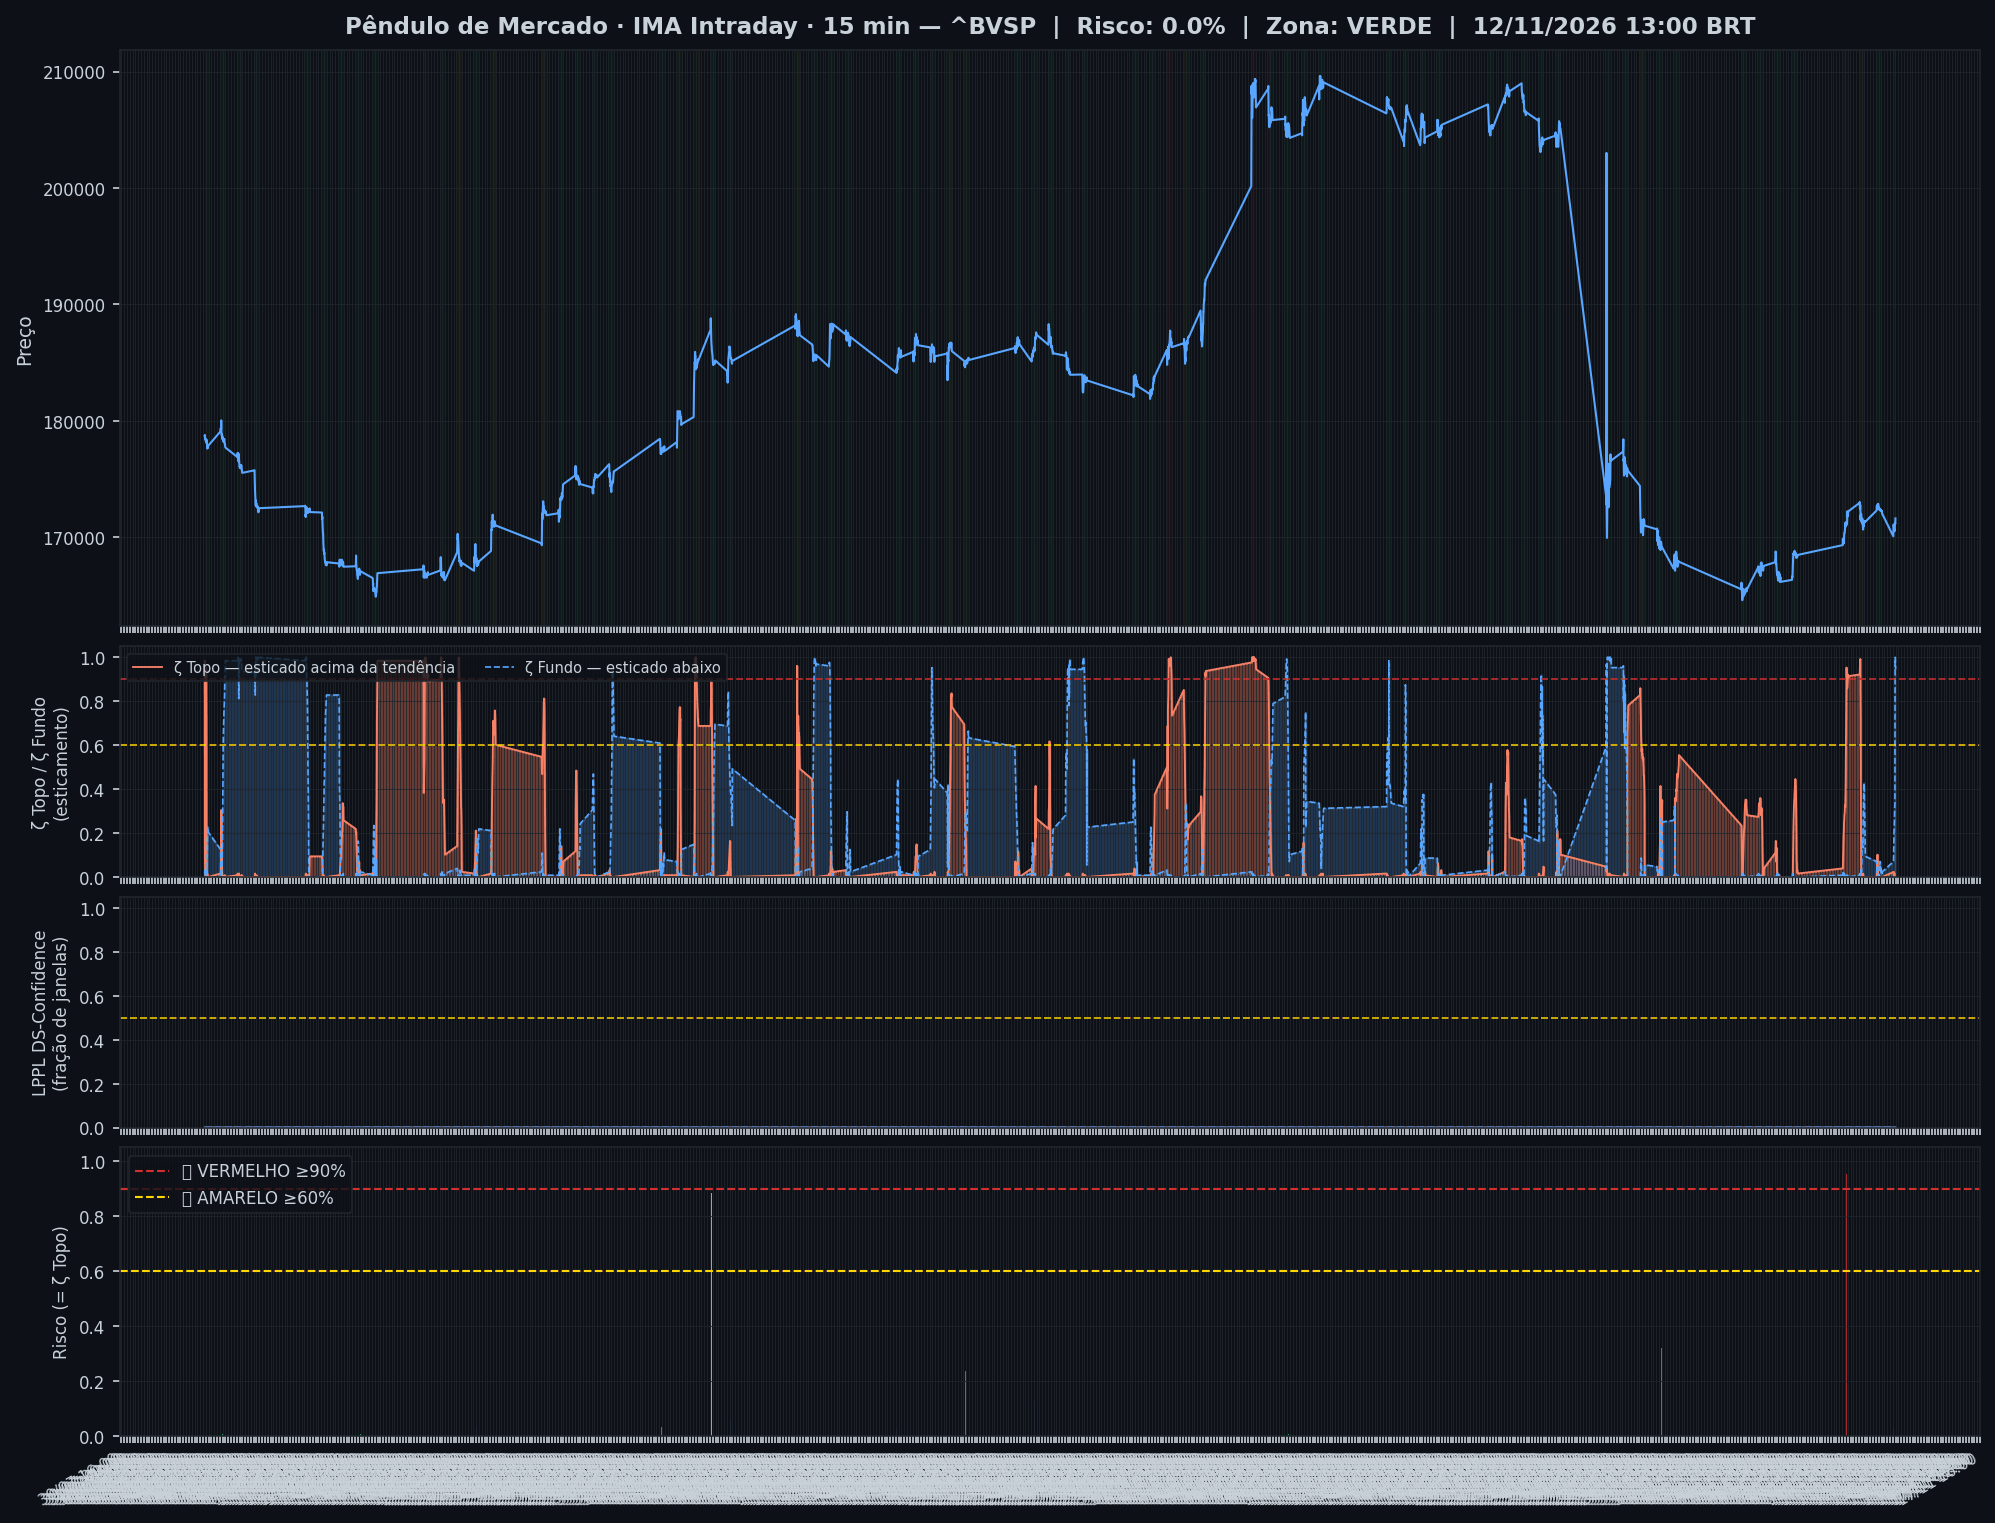
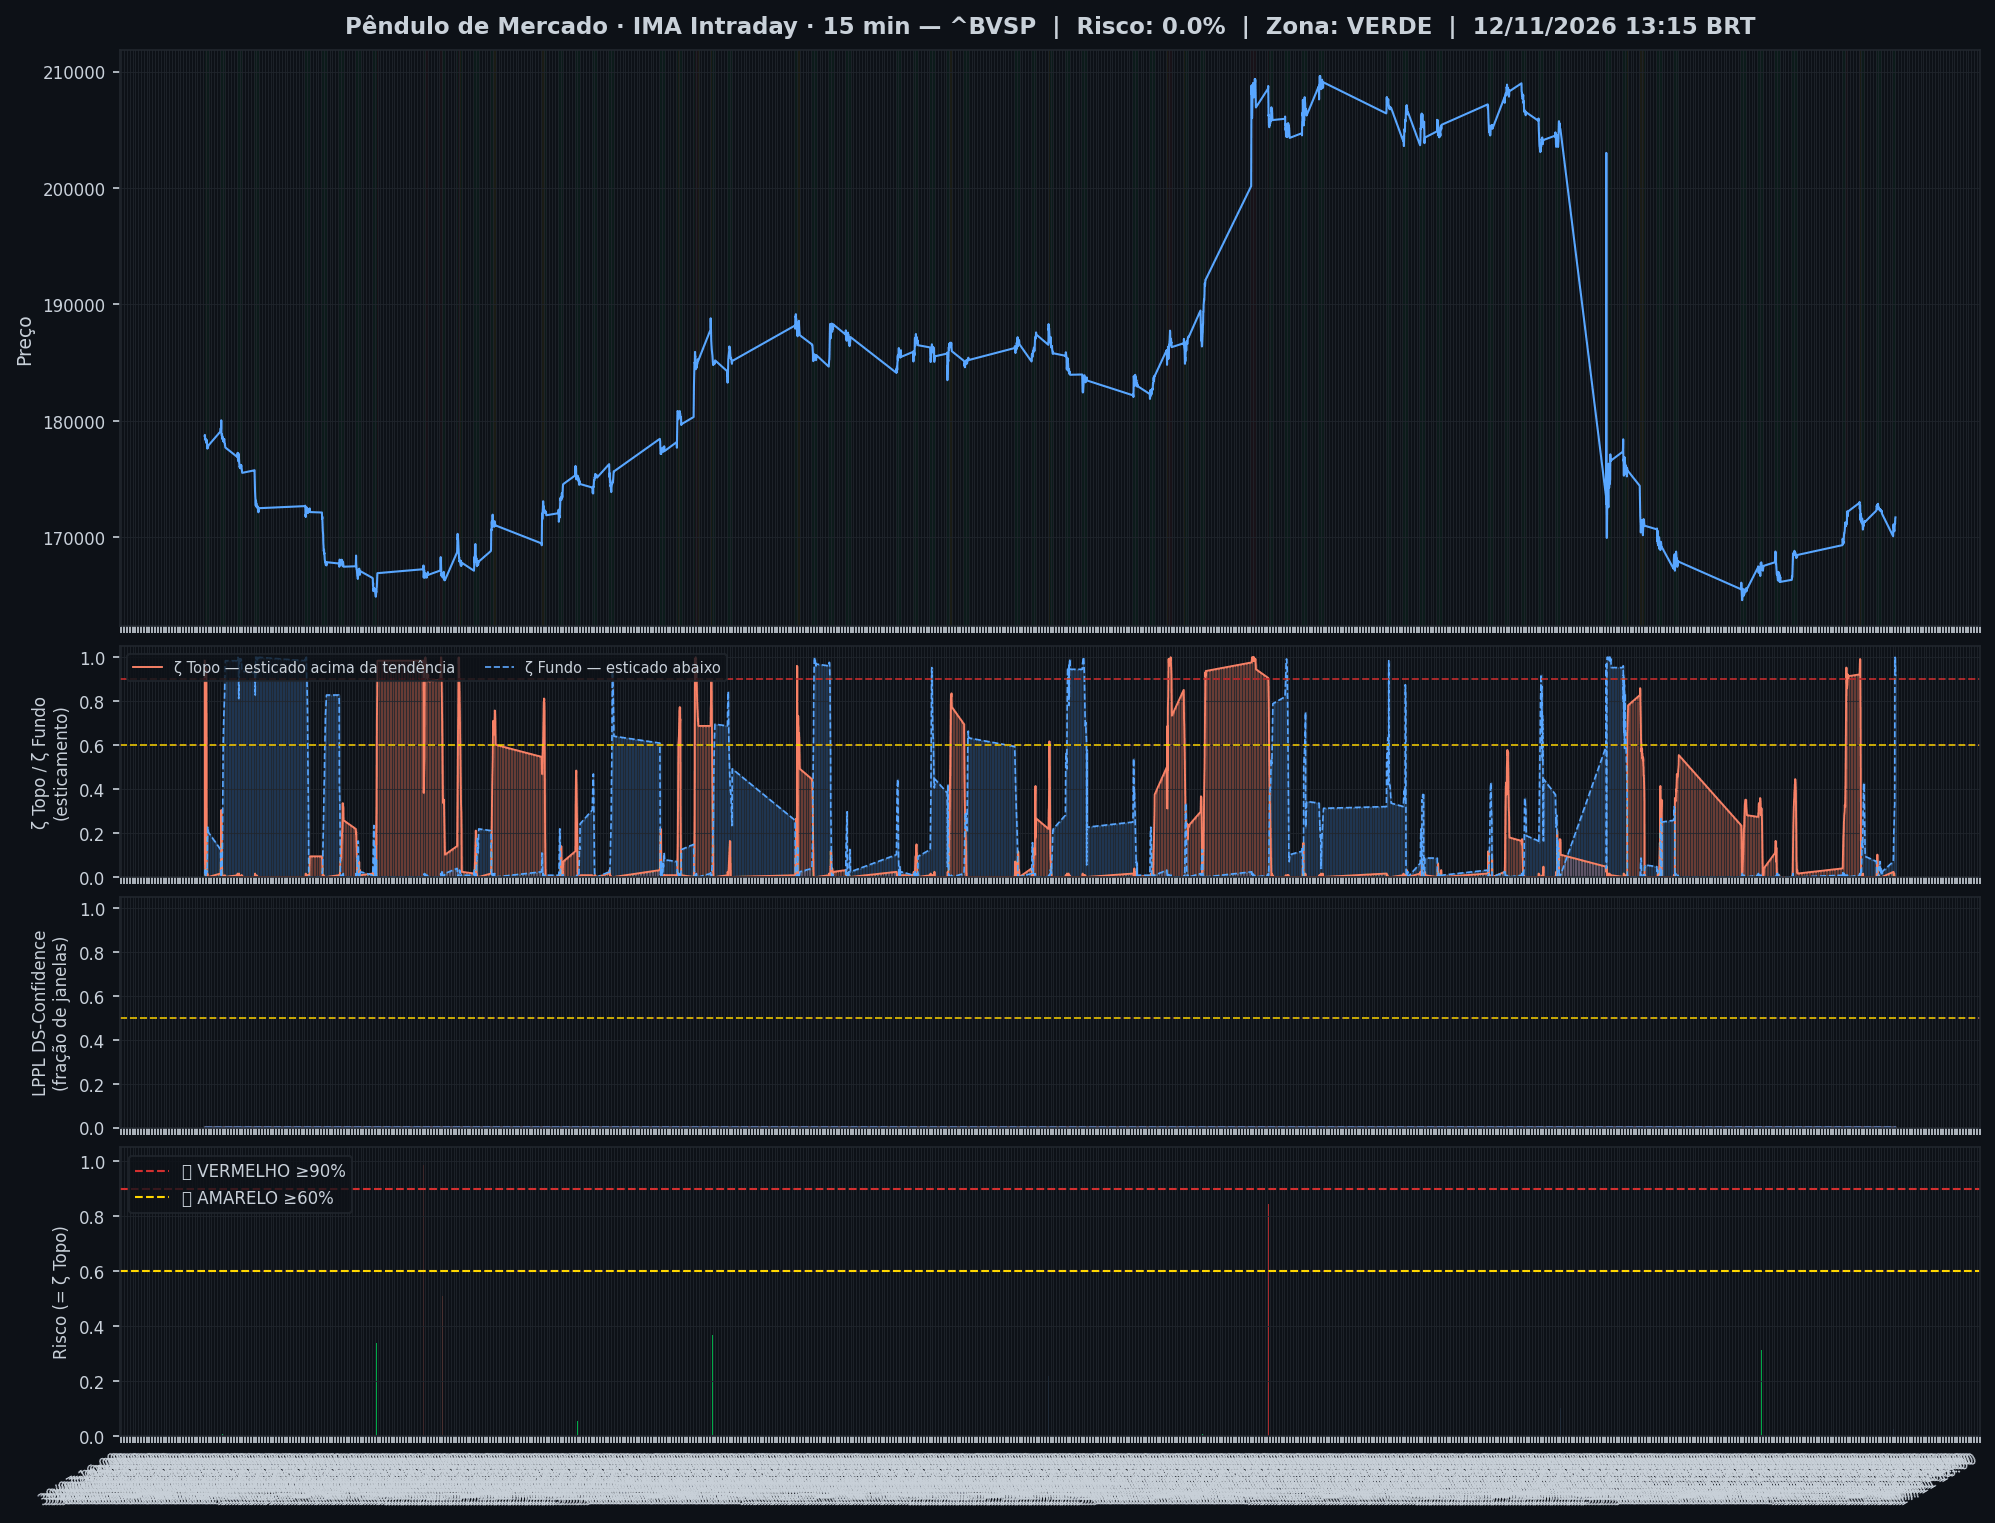
🤖 Auto: Sinal 12/11/2026 13:30

diff --git a/content/intraday/2026-11-12.md b/content/intraday/2026-11-12.md
@@ -1,10 +1,10 @@
 ---
-title: "🟢 Intraday 12/11/2026 13:00 BRT — VERDE"
+title: "🟢 Intraday 12/11/2026 13:15 BRT — VERDE"
 date: 2026-11-12
 tags: [intraday]
 ---
 
-> [!danger] Onde o mercado está agora (12/11 13:00, candles de 15 min): **🔪 Queda forte**
+> [!danger] Onde o mercado está agora (12/11 13:15, candles de 15 min): **🔪 Queda forte**
 > `Pânico ◀─●───────────────────▶ Euforia`
 >
 > O Ibovespa caiu rápido e está bem abaixo da sua tendência, em ritmo de pânico. Historicamente, quedas assim costumaram continuar um pouco antes de virar.
@@ -20,26 +20,26 @@ tags: [intraday]
 > | 📍 **Sinais** | hoje: nenhum sinal | [abrir](sinais-topo-fundo/) |
 > | 🧪 **Placar ao vivo** | 1 operação(ões), 0 com lucro, soma -0,8% | [abrir](operacoes/) |
 
-> [!success] IMA Intraday · 15 min (12/11 13:00): 🟢 **VERDE** — Risco 0% · ＝ +0 p.p. vs leitura anterior
+> [!success] IMA Intraday · 15 min (12/11 13:15): 🟢 **VERDE** — Risco 0% · ＝ +0 p.p. vs leitura anterior
 > `░░░░░░░░░░░░░░░░░░░░`
 > Preço na faixa normal em torno da tendência.
 
 
-> [!danger] 🚨 Nível EXTREMO agora — IMA Intraday · 15 min (12/11 13:00)
-> - 🔪 **ζ Fundo 95%** — preço esticado abaixo da tendência — 🔪 faca caindo: queda forte em andamento
+> [!danger] 🚨 Nível EXTREMO agora — IMA Intraday · 15 min (12/11 13:15)
+> - 🔪 **ζ Fundo 91%** — preço esticado abaixo da tendência — 🔪 faca caindo: queda forte em andamento
 
 > [!note] 🧭 IMA Diário · viés (11/11): 🌱 **Fundo se desfazendo**
 > 📚 só contexto: o pânico passou; sem vantagem estatística confirmada para comprar só por isso
 >
 > *Leitura educacional baseada em 26 anos de dados, não recomendação. [Como usar](../metodologia/crise#3-como-usar-na-prática).*
 
-| Indicador — IMA Intraday · 15 min (12/11 13:00) | Valor |
+| Indicador — IMA Intraday · 15 min (12/11 13:15) | Valor |
 |---|---|
 | 🔴 ζ Topo — preço esticado acima da tendência | **0%** |
-| 🔵 ζ Fundo — preço esticado abaixo da tendência | 🔪 **95%** |
+| 🔵 ζ Fundo — preço esticado abaixo da tendência | 🔪 **91%** |
 | 🫧 LPPL bolha — alta super-exponencial (risco de crash) | 0% |
 | 🫧 LPPL antibolha — queda super-exponencial (risco de repique) | 0% |
-| 📊 Ibovespa | 171.638 pts |
+| 📊 Ibovespa | 171.721 pts |
 
 ![Gráfico do sinal](../graficos/sinal_intraday.png)
 
@@ -47,6 +47,7 @@ tags: [intraday]
 
 | Data | Zona | Evento | Risco | ζ Topo | ζ Fundo | LPPL |
 |---|---|---|---|---|---|---|
+| 2026-11-12 13:15 | 🟢 VERDE |  | **0%** | 0% | 🔪 **91%** | 0% |
 | 2026-11-12 13:00 | 🟢 VERDE |  | **0%** | 0% | 🔪 **95%** | 0% |
 | 2026-11-12 12:45 | 🟢 VERDE |  | **0%** | 0% | 🔪 **98%** | 0% |
 | 2026-11-12 12:30 | 🟢 VERDE |  | **0%** | 0% | 🔪 **100%** | 0% |
@@ -76,7 +77,6 @@ tags: [intraday]
 | 2026-11-11 14:45 | 🟢 VERDE |  | **0%** | 0% | 6% | 0% |
 | 2026-11-11 14:30 | 🟢 VERDE |  | **0%** | 0% | 5% | 0% |
 | 2026-11-11 14:15 | 🟢 VERDE |  | **0%** | 0% | 4% | 0% |
-| 2026-11-11 14:00 | 🟢 VERDE |  | **0%** | 0% | 5% | 0% |
 
 <small>Destaques: 🟡 ≥ 60% · 🔴 ≥ 90% (Risco e ζ Topo) · 🔵 ≥ 60% · 🔪 ≥ 90% (ζ Fundo) · 🫧 ≥ 30% · 🫧🔴 ≥ 50% (LPPL)</small>
 
@@ -85,43 +85,43 @@ tags: [intraday]
 **7% dos ativos em tensão** (2🔴 0🟡) · **7 com ζ Fundo alto** — quanto mais ativos disparam juntos, mais confiável o sinal.
 
 > [!danger] Em destaque no multi-ativo
-> 🔪 **BRASIL** ζ Fundo 99% · 🔪 **AXIA ENERGIA** ζ Fundo 98% · 🔪 **BTGP BANCO** ζ Fundo 98% · 🔴 **ULTRAPAR** ζ Topo 98% · 🔪 **ITAUSA** ζ Fundo 98% · 🔴 **VIBRA** ζ Topo 97% · 🔵 **ENEVA** ζ Fundo 88% · 🔵 **BRADESCO** ζ Fundo 84% · 🔵 **ITAUUNIBANCO** ζ Fundo 71%
+> 🔪 **BTGP BANCO** ζ Fundo 99% · 🔪 **BRASIL** ζ Fundo 99% · 🔴 **ULTRAPAR** ζ Topo 98% · 🔪 **AXIA ENERGIA** ζ Fundo 98% · 🔴 **VIBRA** ζ Topo 97% · 🔪 **ITAUSA** ζ Fundo 96% · 🔪 **ENEVA** ζ Fundo 91% · 🔵 **BRADESCO** ζ Fundo 79% · 🔵 **ITAUUNIBANCO** ζ Fundo 61%
 
 | Zona | Ativo | Setor | ζ Topo | ζ Fundo |
 |---|---|---|---|---|
-| 🟢 | **BRASIL** | Financeiro | 0.8% | 🔪 **99.2%** |
-| 🟢 | **AXIA ENERGIA** | Energia | 0.0% | 🔪 **98.4%** |
-| 🟢 | **BTGP BANCO** | Financeiro | 0.0% | 🔪 **98.4%** |
-| 🔴 | **ULTRAPAR** | Outros | 🔴 **98.4%** | 0.8% |
-| 🟢 | **ITAUSA** | Financeiro | 0.0% | 🔪 **97.7%** |
+| 🟢 | **BTGP BANCO** | Financeiro | 0.0% | 🔪 **99.2%** |
+| 🟢 | **BRASIL** | Financeiro | 0.0% | 🔪 **99.2%** |
+| 🔴 | **ULTRAPAR** | Outros | 🔴 **98.4%** | 0.0% |
+| 🟢 | **AXIA ENERGIA** | Energia | 0.0% | 🔪 **97.7%** |
 | 🔴 | **VIBRA** | Energia | 🔴 **96.9%** | 0.0% |
-| 🟢 | **ENEVA** | Energia | 0.0% | 🔵 **87.5%** |
-| 🟢 | **BRADESCO** | Financeiro | 0.0% | 🔵 **84.4%** |
-| 🟢 | **ITAUUNIBANCO** | Financeiro | 0.0% | 🔵 **71.1%** |
-| 🟢 | **TELEF BRASIL** | Outros | 0.0% | 54.7% |
-| 🟢 | **USD/BRL** | Câmbio | 53.9% | 0.0% |
-| 🟢 | **BBSEGURIDADE** | Financeiro | 0.0% | 49.2% |
-| 🟢 | **EQUATORIAL** | Energia | 0.0% | 40.6% |
-| 🟢 | **SUZANO S.A.** | Papel/Celulose | 38.3% | 0.0% |
-| 🟢 | **VALE** | Mineração | 1.6% | 34.4% |
-| 🟢 | **PETROBRAS** | Petróleo | 34.4% | 0.0% |
-| 🟢 | **WEG** | Industrial | 29.7% | 0.0% |
-| 🟢 | **PETROBRAS** | Petróleo | 22.7% | 0.0% |
+| 🟢 | **ITAUSA** | Financeiro | 0.0% | 🔪 **96.1%** |
+| 🟢 | **ENEVA** | Energia | 0.0% | 🔪 **90.6%** |
+| 🟢 | **BRADESCO** | Financeiro | 0.0% | 🔵 **78.9%** |
+| 🟢 | **ITAUUNIBANCO** | Financeiro | 0.0% | 🔵 **60.9%** |
+| 🟢 | **TELEF BRASIL** | Outros | 0.8% | 57.8% |
+| 🟢 | **USD/BRL** | Câmbio | 54.7% | 0.0% |
+| 🟢 | **BBSEGURIDADE** | Financeiro | 0.0% | 50.8% |
+| 🟢 | **GERDAU** | Siderurgia | 41.4% | 0.0% |
+| 🟢 | **EQUATORIAL** | Energia | 0.0% | 39.1% |
+| 🟢 | **PETROBRAS** | Petróleo | 37.5% | 0.8% |
+| 🟢 | **SUZANO S.A.** | Papel/Celulose | 34.4% | 2.3% |
+| 🟢 | **WEG** | Industrial | 33.6% | 0.0% |
+| 🟢 | **PETROBRAS** | Petróleo | 29.7% | 0.8% |
+| 🟢 | **VALE** | Mineração | 3.1% | 25.8% |
 | 🟢 | **LOCALIZA** | Aluguel | 0.0% | 21.1% |
-| 🟢 | **REDE D OR** | Saúde | 0.0% | 15.6% |
-| 🟢 | **GERDAU** | Siderurgia | 11.7% | 1.6% |
+| 🟢 | **REDE D OR** | Saúde | 0.0% | 11.7% |
 | 🟢 | **PRIO** | Petróleo | 10.2% | 0.0% |
-| 🟢 | **COPEL** | Energia | 2.3% | 4.7% |
-| 🟢 | **B3** | Financeiro | 0.0% | 3.1% |
-| 🟢 | **EMBRAER** | Outros | 0.8% | 2.3% |
-| 🟢 | **SABESP** | Saneamento | 0.8% | 1.6% |
-| 🟢 | **AMBEV S/A** | Consumo | 0.8% | 0.8% |
+| 🟢 | **SABESP** | Saneamento | 0.8% | 3.1% |
+| 🟢 | **B3** | Financeiro | 3.1% | 1.6% |
+| 🟢 | **EMBRAER** | Outros | 2.3% | 1.6% |
+| 🟢 | **COPEL** | Energia | 1.6% | 2.3% |
+| 🟢 | **AMBEV S/A** | Consumo | 0.0% | 0.8% |
 
 <small>Destaques: 🟡 ≥ 60% · 🔴 ≥ 90% (Risco e ζ Topo) · 🔵 ≥ 60% · 🔪 ≥ 90% (ζ Fundo) · 🫧 ≥ 30% · 🫧🔴 ≥ 50% (LPPL)</small>
 
 ![Monitor multi-ativo](../graficos/multi_intraday.png)
 
-*Página atualizada em 12/11/2026 13:16 BRT (leitura da barra de 2026-11-12 13:00 BRT).*
+*Página atualizada em 12/11/2026 13:30 BRT (leitura da barra de 2026-11-12 13:15 BRT).*
 
 > [!warning] O que este indicador não faz
 > Medido em 5 anos de Ibovespa, o ζ **não antecipa** topos nem fundos: a capacidade de separar o que sobe do que cai ficou em 0,49–0,52, e 0,50 é moeda jogada ao ar. Ele descreve o estado de agora; não é aviso do que vem. As zonas verde/amarelo/vermelho continuam na página como descrição desse estado — **não as use como sinal de entrada ou saída**.

diff --git a/content/index.md b/content/index.md
@@ -6,9 +6,9 @@ tags: [home]
 
 **As ondas do mercado, explicadas.** Leitura do Ibovespa com estatística de 26 anos, baseada no trabalho de pesquisadores e traders reconhecidos e adaptada por Jarbas Daniel da Costa.
 
-*Última atualização: 12/11/2026 13:16 BRT · Intraday 15min*
+*Última atualização: 12/11/2026 13:30 BRT · Intraday 15min*
 
-> [!danger] Onde o mercado está agora (12/11 13:00, candles de 15 min): **🔪 Queda forte**
+> [!danger] Onde o mercado está agora (12/11 13:15, candles de 15 min): **🔪 Queda forte**
 > `Pânico ◀─●───────────────────▶ Euforia`
 >
 > O Ibovespa caiu rápido e está bem abaixo da sua tendência, em ritmo de pânico. Historicamente, quedas assim costumaram continuar um pouco antes de virar.
@@ -16,8 +16,8 @@ tags: [home]
 >
 > *Leitura educacional baseada em 26 anos de dados. Não é recomendação de investimento.*
 
-> [!danger] 🚨 Nível EXTREMO agora — IMA Intraday · 15 min (12/11 13:00)
-> - 🔪 **ζ Fundo 95%** — preço esticado abaixo da tendência — 🔪 faca caindo: queda forte em andamento
+> [!danger] 🚨 Nível EXTREMO agora — IMA Intraday · 15 min (12/11 13:15)
+> - 🔪 **ζ Fundo 91%** — preço esticado abaixo da tendência — 🔪 faca caindo: queda forte em andamento
 
 ## Agora
 
@@ -47,18 +47,18 @@ tags: [home]
 > *Leitura educacional baseada em 26 anos de dados, não recomendação. [Como usar](metodologia/crise#3-como-usar-na-prática).*
 
 > [!info]- 🌊 Detalhes do Sinal IMA (indicadores e últimos 7 pregões)
-> > [!success] IMA Intraday · 15 min (12/11 13:00): 🟢 **VERDE** — Risco 0% · ＝ +0 p.p. vs leitura anterior
+> > [!success] IMA Intraday · 15 min (12/11 13:15): 🟢 **VERDE** — Risco 0% · ＝ +0 p.p. vs leitura anterior
 > > `░░░░░░░░░░░░░░░░░░░░`
 > > Preço na faixa normal em torno da tendência.
 >
 >
-> | Indicador — IMA Intraday · 15 min (12/11 13:00) | Valor |
+> | Indicador — IMA Intraday · 15 min (12/11 13:15) | Valor |
 > |---|---|
 > | 🔴 ζ Topo — preço esticado acima da tendência | **0%** |
-> | 🔵 ζ Fundo — preço esticado abaixo da tendência | 🔪 **95%** |
+> | 🔵 ζ Fundo — preço esticado abaixo da tendência | 🔪 **91%** |
 > | 🫧 LPPL bolha — alta super-exponencial (risco de crash) | 0% |
 > | 🫧 LPPL antibolha — queda super-exponencial (risco de repique) | 0% |
-> | 📊 Ibovespa | 171.638 pts |
+> | 📊 Ibovespa | 171.721 pts |
 >
 > **Multi-ativo:** 7% em tensão (2🔴 0🟡 de 27 ativos)
 >
@@ -66,7 +66,7 @@ tags: [home]
 >
 > | Data | Zona | Risco | ζ Topo | ζ Fundo | LPPL |
 > |---|---|---|---|---|---|
-> | [12/11/2026](intraday/2026-11-12) | 🟢 VERDE | **0%** | 0% | 🔪 **95%** | 0% |
+> | [12/11/2026](intraday/2026-11-12) | 🟢 VERDE | **0%** | 0% | 🔪 **91%** | 0% |
 > | [11/11/2026](intraday/2026-11-11) | 🟢 VERDE | **0%** | 0% | 2% | 0% |
 >
 > <small>Destaques: 🟡 ≥ 60% · 🔴 ≥ 90% (Risco e ζ Topo) · 🔵 ≥ 60% · 🔪 ≥ 90% (ζ Fundo) · 🫧 ≥ 30% · 🫧🔴 ≥ 50% (LPPL)</small>

diff --git a/content/historico.md b/content/historico.md
@@ -5,7 +5,7 @@ tags: [historico]
 
 # 📜 Histórico de leituras (v5)
 
-**2.325 leituras** desde 2026-07-03. Na página ficam os últimos 3 dias leitura por leitura e o resumo de cada dia anterior; o registro inteiro está no arquivo para baixar.
+**2.326 leituras** desde 2026-07-03. Na página ficam os últimos 3 dias leitura por leitura e o resumo de cada dia anterior; o registro inteiro está no arquivo para baixar.
 
 [**Baixar o histórico completo**](historico-completo.csv) (102 KB · abre no Excel e no LibreOffice)
 
@@ -16,6 +16,7 @@ tags: [historico]
 
 | Data | Modo | Zona | Risco | IMA | LPPL |
 |---|---|---|---|---|---|
+| 2026-11-12 13:15 | intraday | 🟢 VERDE | 0% | 0% | 0% |
 | 2026-11-12 13:00 | intraday | 🟢 VERDE | 0% | 0% | 0% |
 | 2026-11-12 12:45 | intraday | 🟢 VERDE | 0% | 0% | 0% |
 | 2026-11-12 12:30 | intraday | 🟢 VERDE | 0% | 0% | 0% |

diff --git a/content/operacoes/ranking.md b/content/operacoes/ranking.md
@@ -5,7 +5,7 @@ tags: [operacoes]
 description: "As regras de compra do site ordenadas pelo resultado, com treino, teste e placar ao vivo"
 ---
 
-*Atualizado 12/11/2026 13:16 · histórico simulado com as regras congeladas em 23/10/2026 + placar ao vivo.*
+*Atualizado 12/11/2026 13:30 · histórico simulado com as regras congeladas em 23/10/2026 + placar ao vivo.*
 
 As regras de compra do site, **da que mais rendeu para a que menos rendeu**. O resultado é por operação, no índice à vista, sem custos e sem juros compostos (a soma é só a soma das operações). **Treino** = entradas de 2001 a 2013 e **teste** = 2014 em diante: uma regra só é confiável se ganhou nos dois. O único resultado sem nenhum ajuste ao histórico é o **placar ao vivo**.
 

diff --git a/content/linha-do-tempo/index.md b/content/linha-do-tempo/index.md
@@ -5,7 +5,7 @@ description: "Todo sinal, ordem, stop e aviso do Pêndulo de Mercado, do mais re
 tags: [eventos]
 ---
 
-*Atualizada 12/11/2026 13:16 BRT · a cada 15 min no pregão e às 19h.*
+*Atualizada 12/11/2026 13:30 BRT · a cada 15 min no pregão e às 19h.*
 
 Tudo o que o sistema fez ou detectou, **do mais recente para o mais antigo**: sinais de topo e fundo, ordens de compra e de venda armadas, compras, vendas, stops, avisos de 🚨 preço perto do nível e mudanças do Sinal IMA. Os **últimos 7 dias** ficam abertos; o resto, por **ano → mês → dia**.
 
